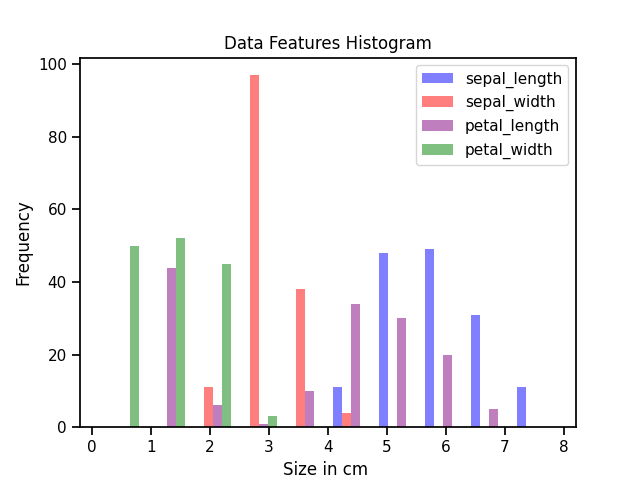
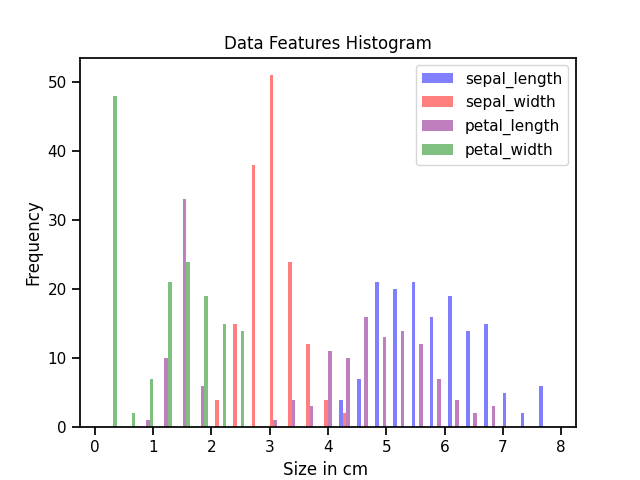
use seaborn to create an overlaid histogram

diff --git a/main.py b/main.py
@@ -90,13 +90,12 @@ if os.path.exists(histogram_destination):
 else: 
     plt.savefig(histogram_destination)
 import seaborn as sns
-sns.set_context('notebook')
 plt.figure()
 ax =plt.axes()
 features=data_set[[x for x in data_set.columns if x !='species']]
 feature = [x for x in data_set.columns if x !='species']
 colors = ['blue','red','purple','green']
-ax.hist(features,bins=10,alpha=0.5,color=colors,label=feature)
+ax.hist(features,bins=25,alpha=0.5,color=colors,label=feature)
 ax.set(xlabel='Size in cm ',ylabel='Frequency',title='Data Features Histogram')
 ax.legend()
 histogram='all_features.png'
@@ -105,3 +104,12 @@ if os.path.exists(histogram_destination):
     print(f'Histogram already exists at {histogram_destination}')
 else:
     plt.savefig(histogram_destination)
+sns.set_context('notebook')
+ax = data_set.plot.hist(bins=25,alpha=0.5)
+ax.set_label('Size (cm)')
+seaborn_plot="overlaid_hist.png"
+seaborn_path = os.path.join(plots_directory,seaborn_plot)
+if os.path.exists(seaborn_path):
+    print(f'plot already exists at path {seaborn_path}')
+else:
+    plt.savefig(seaborn_path)
